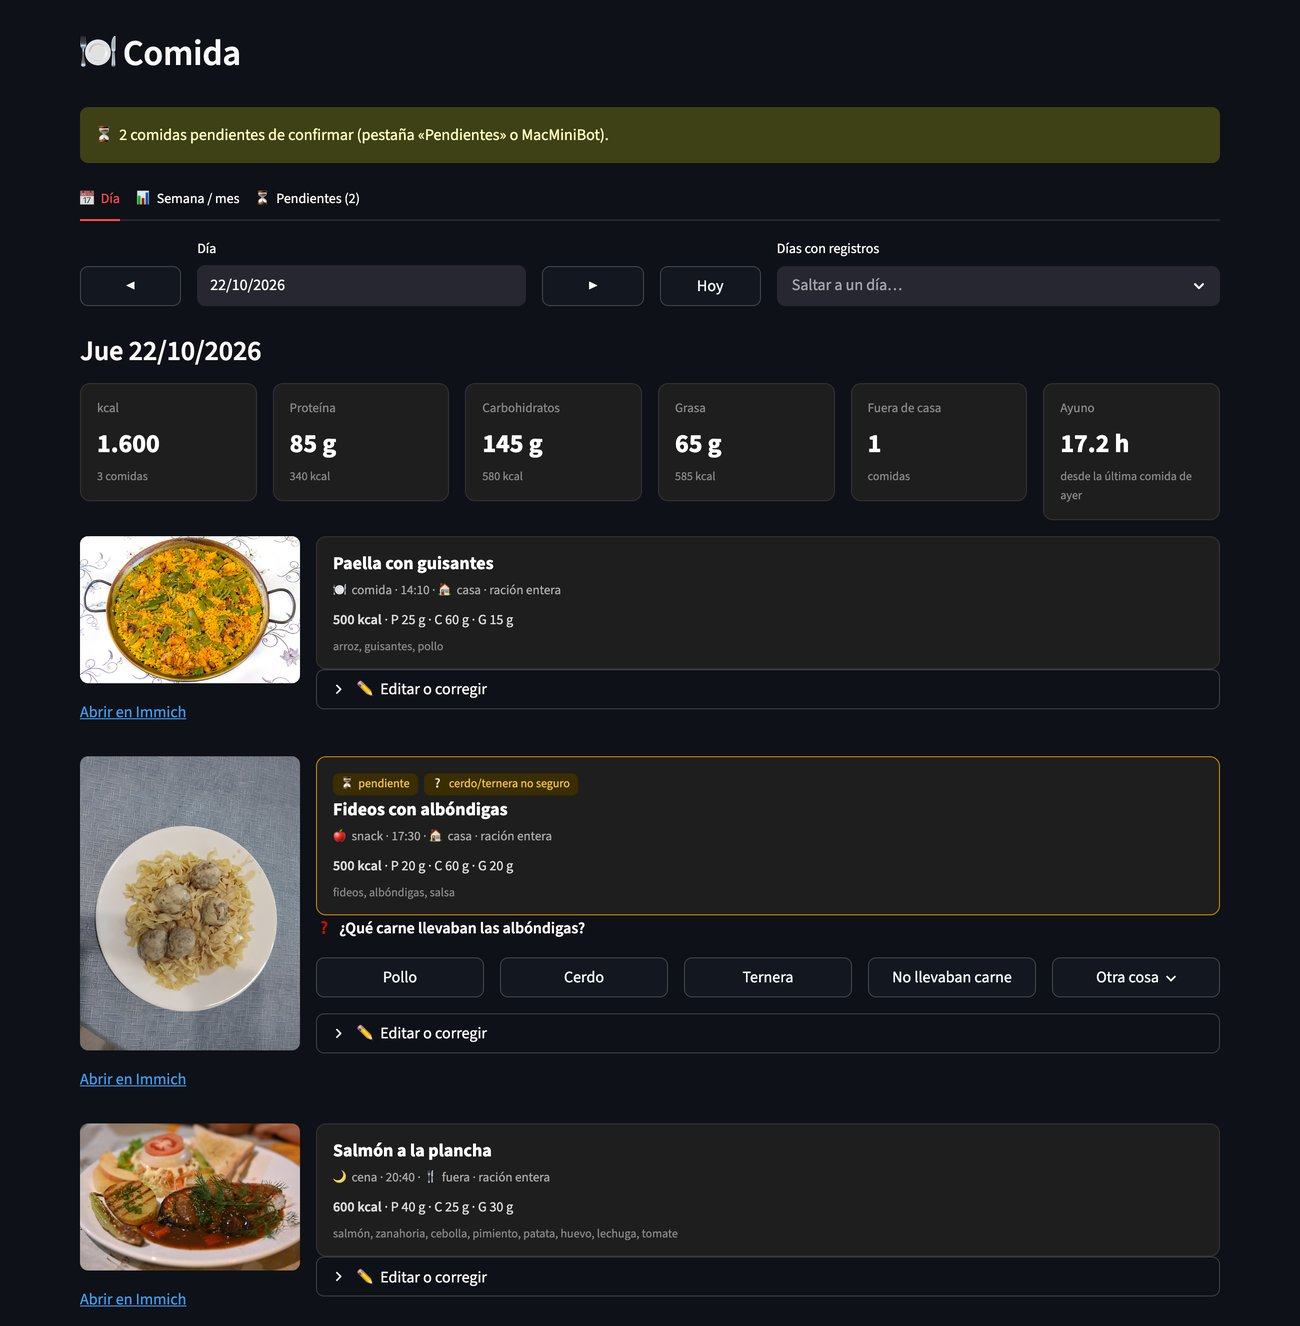
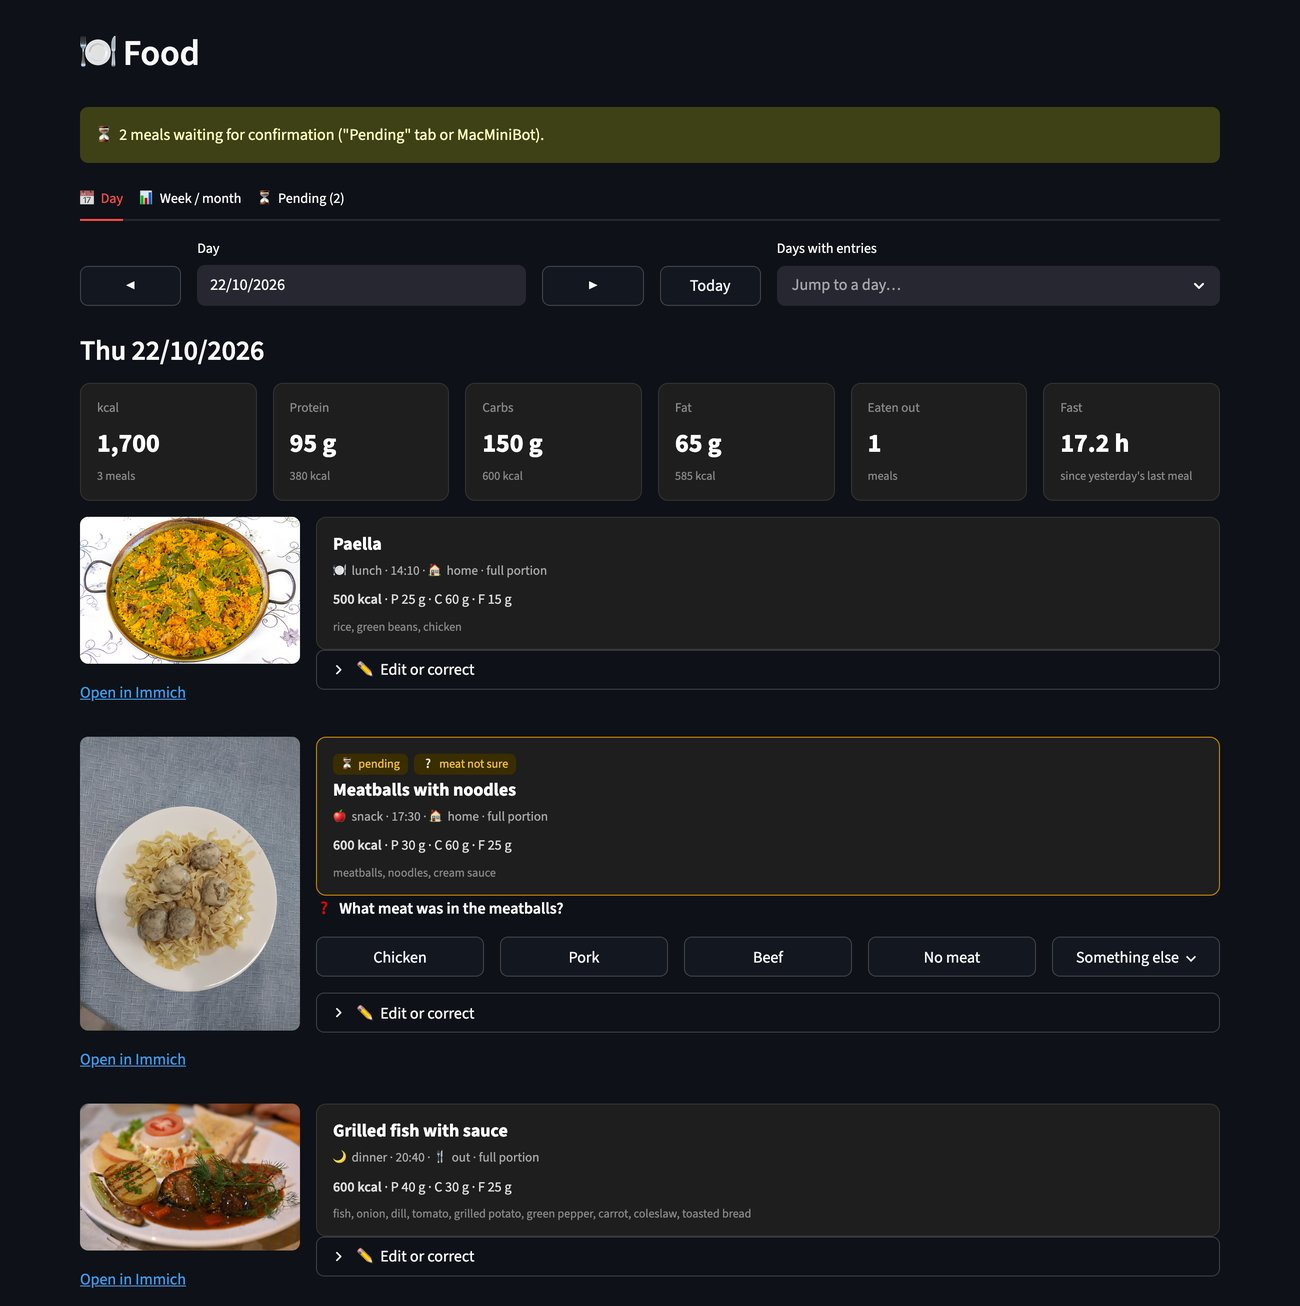
Use a real architecture diagram and English screenshots in the food log post

diff --git a/content/articles/2026-10-24_logging-what-i-eat-with-immich-a-local-vision-model-and-a-telegram-bot/index.md b/content/articles/2026-10-24_logging-what-i-eat-with-immich-a-local-vision-model-and-a-telegram-bot/index.md
@@ -7,8 +7,9 @@ description: "How a Mac mini, Immich, a local vision model and a Telegram bot tu
 
 subtitle: "I can tell you how many kilometers I ran in March and how many days I spent in Vietnam, but until now I could not tell you what I had for lunch on Tuesday."
 
-image: "/articles/2026-10-24_logging-what-i-eat-with-immich-a-local-vision-model-and-a-telegram-bot/images/1.jpg"
+image: "/articles/2026-10-24_logging-what-i-eat-with-immich-a-local-vision-model-and-a-telegram-bot/images/0.jpg"
 images:
+ - "/articles/2026-10-24_logging-what-i-eat-with-immich-a-local-vision-model-and-a-telegram-bot/images/0.jpg"
  - "/articles/2026-10-24_logging-what-i-eat-with-immich-a-local-vision-model-and-a-telegram-bot/images/1.jpg"
  - "/articles/2026-10-24_logging-what-i-eat-with-immich-a-local-vision-model-and-a-telegram-bot/images/2.jpg"
  - "/articles/2026-10-24_logging-what-i-eat-with-immich-a-local-vision-model-and-a-telegram-bot/images/3.jpg"
@@ -25,25 +26,9 @@ So the idea was the following: let a machine look at my food photos every evenin
 
 The whole system lives on the same Mac mini, and it is made of a nightly job, a Telegram listener and a new page in the dashboard. Nothing of it runs in the cloud, except an optional second opinion I will explain later.
 
-```
- iPhone ──upload──▶ Immich (Docker)
-                        │  smart search: "plate of food, meal, dish, drink"
-                        ▼
-              food_log.job  (launchd, 21:30)
-                        │
-          ┌─────────────┴──────────────┐
-          ▼                            ▼
-  Ollama · qwen3-vl:8b         Claude Sonnet (only when
-  (local, every photo)         the local model is not sure)
-          └─────────────┬──────────────┘
-                        ▼
-                 SQLite (food.db) ──▶ Google Sheet, "Food" tab
-                        │
-         ┌──────────────┼───────────────────┐
-         ▼              ▼                   ▼
-  Streamlit page   MacMiniBot: one     food_log.bot (launchd)
-  "Comida"         message per night   applies my answers
-```
+![image](/articles/2026-10-24_logging-what-i-eat-with-immich-a-local-vision-model-and-a-telegram-bot/images/0.jpg#layoutTextWidth)
+
+_The whole pipeline. The green dashed line is the learning loop: every answer I give ends up in the next prompts._
 
 Every evening at 21:30, launchd starts a Python job. It asks Immich for the photos uploaded since the previous run, and uses Immich's smart search (the CLIP embeddings it already computes for every photo) with a query like "plate of food, meal, dish, drink". Smart search does not filter, it ranks: it returns every photo in the time window ordered by how much it looks like food. The top candidates go to the vision model, and is the model the one that decides what is food and what is a photo of my kitchen floor. If I want to be more strict, a single setting makes the job read only an album called "Food" instead.
 
@@ -55,11 +40,11 @@ I wanted the default to be local. My food is, after all, quite personal data, an
 
 Here I learnt my first lesson of the project. The default `qwen3-vl:8b` tag in Ollama is the thinking variant, and it ignores the request to not think: it was spending more than a thousand tokens reasoning about whether a paella is a paella before answering, around a hundred seconds per photo. The `qwen3-vl:8b-instruct` variant answers the same JSON, with the same quality for my test photos, in fifteen to twenty seconds. Ollama also supports structured outputs, so I pass the JSON schema directly and the model can not produce anything that does not parse. When the run is finished the job unloads the model, so the memory goes back to LM Studio.
 
-This is how a normal day looks like in the dashboard once the job has run. The paella was recognized by the local model with a confidence of 0.95: rice, peas and chicken, around 500 kcal, no meat I do not eat. The meatballs in the afternoon were a different story, and that is the next section.
+This is how a normal day looks like in the dashboard once the job has run. The paella was recognized by the local model with a confidence of 0.95: rice, green beans and chicken, around 500 kcal, no meat I do not eat. The meatballs in the afternoon were a different story, and that is the next section.
 
 ![image](/articles/2026-10-24_logging-what-i-eat-with-immich-a-local-vision-model-and-a-telegram-bot/images/1.jpg#layoutTextWidth)
 
-_The daily view of the "Comida" page: totals of the day, the overnight fast and every meal with its photo, macros and place. The entries were produced by the local model from sample photos (credits at the end)._
+_The daily view of the "Food" page: totals of the day, the overnight fast and every meal with its photo, macros and place. The entries were produced by the local model from sample photos (credits at the end)._
 
 When the local model is not confident, the same photo with the same prompt goes to Claude Sonnet, which is were the second opinion comes in. This is optional and capped at a few calls per night, and in practice most of the photos never leave the house.
 
@@ -67,9 +52,9 @@ When the local model is not confident, the same photo with the same prompt goes 
 
 There is one thing that is more important for me than the calories: I do not eat pork, beef or any other red meat. Poultry, fish and seafood are fine. A burger in a restaurant, meatballs or a dumpling filling can be any of them, and a model that guesses "chicken" just because I usually eat chicken is worse than useless. So the prompt is very explicit about it, and the model has three options for the meat: yes, no, and unsure.
 
-If the confidence is below 0.7, or the meat is unsure, the entry does not get confirmed. Instead, the model writes one concrete question and two to four possible answers. For a takeaway box of rice with some unidentified meat, the question is "¿Qué tipo de carne lleva el arroz?", with the options "Pollo", "Cerdo", "Ternera" and "No llevaba carne".
+If the confidence is below 0.7, or the meat is unsure, the entry does not get confirmed. Instead, the model writes one concrete question and two to four possible answers. For a plate of rice with some unidentified meat, the question is "What meat was in the rice?", with the options "Chicken", "Pork", "Beef" and "No meat".
 
-All the open questions of the day are sent as one single message through MacMiniBot, the Telegram bot that already sends me my morning summary. Telegram does not allow inline buttons on an album of photos, so the job builds a numbered collage of the photos, puts the questions in the caption and adds a row of buttons per photo: the suggested answers, plus "Otra cosa" to type a free answer. A small listener running under launchd processes the button presses, sends the photo and my answer back to the model to rewrite the entry, removes the buttons of that photo and, when everything is answered, marks the message as solved. Since the morning bot only sends messages and never reads updates, the listener can be the only reader of the bot without stepping on anybody's toes.
+All the open questions of the day are sent as one single message through MacMiniBot, the Telegram bot that already sends me my morning summary. Telegram does not allow inline buttons on an album of photos, so the job builds a numbered collage of the photos, puts the questions in the caption and adds a row of buttons per photo: the suggested answers, plus "Something else" to type a free answer. A small listener running under launchd processes the button presses, sends the photo and my answer back to the model to rewrite the entry, removes the buttons of that photo and, when everything is answered, marks the message as solved. Since the morning bot only sends messages and never reads updates, the listener can be the only reader of the bot without stepping on anybody's toes.
 
 ![image](/articles/2026-10-24_logging-what-i-eat-with-immich-a-local-vision-model-and-a-telegram-bot/images/2.jpg#layoutTextWidth)
 
@@ -81,7 +66,7 @@ Every answer I give, on Telegram or in the dashboard, is stored as a correction:
 
 #### The dashboard
 
-The new "Comida" page of the dashboard shows each day in order: the thumbnail of the photo (served from Immich), the dish, the type of meal, where I ate and the macros, together with the totals of the day. A weekly and monthly view plots the calories and the macros per day, how many times I ate outside and how many hours I fasted every night, which is simply the time between the last meal with a photo of one day and the first one of the next.
+The new "Food" page of the dashboard shows each day in order: the thumbnail of the photo (served from Immich), the dish, the type of meal, where I ate and the macros, together with the totals of the day. A weekly and monthly view plots the calories and the macros per day, how many times I ate outside and how many hours I fasted every night, which is simply the time between the last meal with a photo of one day and the first one of the next.
 
 ![image](/articles/2026-10-24_logging-what-i-eat-with-immich-a-local-vision-model-and-a-telegram-bot/images/3.jpg#layoutTextWidth)
 
